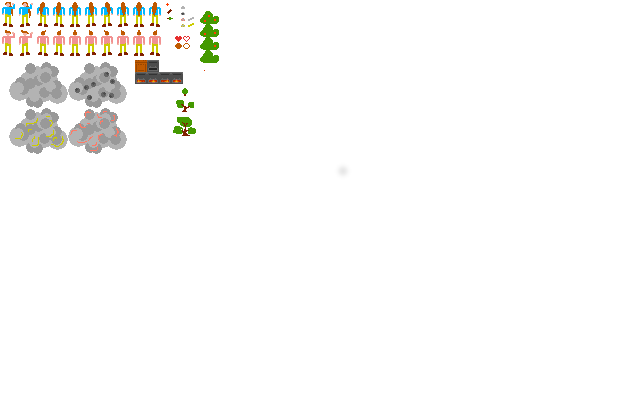
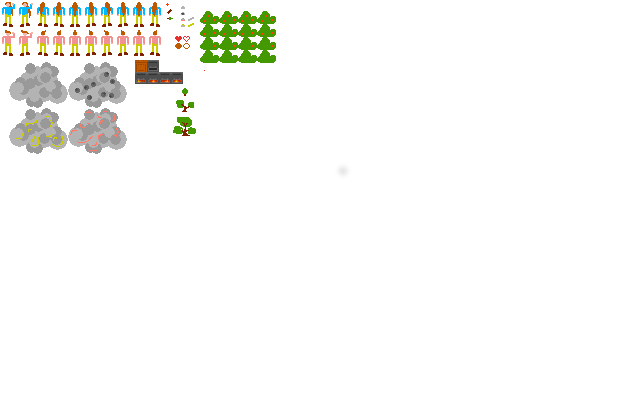
Prepare for bushes to have animation.

Changed region(s): [[0.3438, 0.03, 0.4375, 0.18]]

diff --git a/main/ld45/sprite_mapping.go b/main/ld45/sprite_mapping.go
@@ -51,28 +51,36 @@ func createSpriteMapping() map[string]ui.Sprite {
 			Height: 29,
 		},
 		"bush_3_berries": ui.Sprite{
-			X:      200,
-			Y:      11,
-			Width:  19,
-			Height: 13,
+			X:               200,
+			Y:               11,
+			Width:           19,
+			Height:          13,
+			Frames:          4,
+			FramesPerSecond: 2,
 		},
 		"bush_2_berries": ui.Sprite{
-			X:      200,
-			Y:      24,
-			Width:  19,
-			Height: 13,
+			X:               200,
+			Y:               24,
+			Width:           19,
+			Height:          13,
+			Frames:          4,
+			FramesPerSecond: 2,
 		},
 		"bush_1_berries": ui.Sprite{
-			X:      200,
-			Y:      37,
-			Width:  19,
-			Height: 13,
+			X:               200,
+			Y:               37,
+			Width:           19,
+			Height:          13,
+			Frames:          4,
+			FramesPerSecond: 2,
 		},
 		"bush_0_berries": ui.Sprite{
-			X:      200,
-			Y:      50,
-			Width:  19,
-			Height: 13,
+			X:               200,
+			Y:               50,
+			Width:           19,
+			Height:          13,
+			Frames:          4,
+			FramesPerSecond: 2,
 		},
 		"tree_1": ui.Sprite{
 			X:      181,
